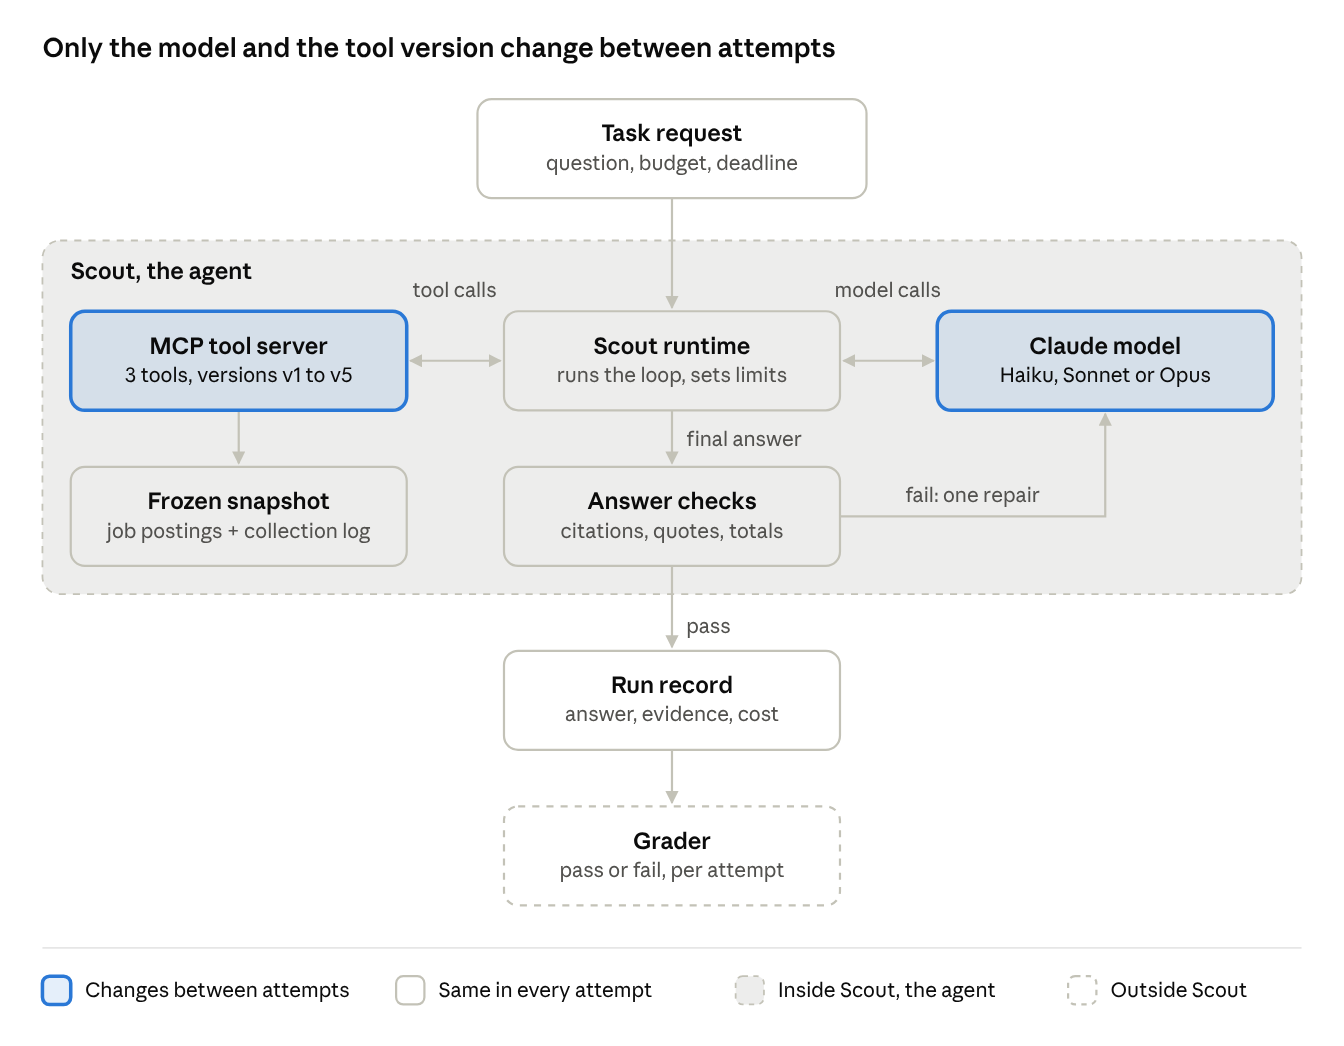
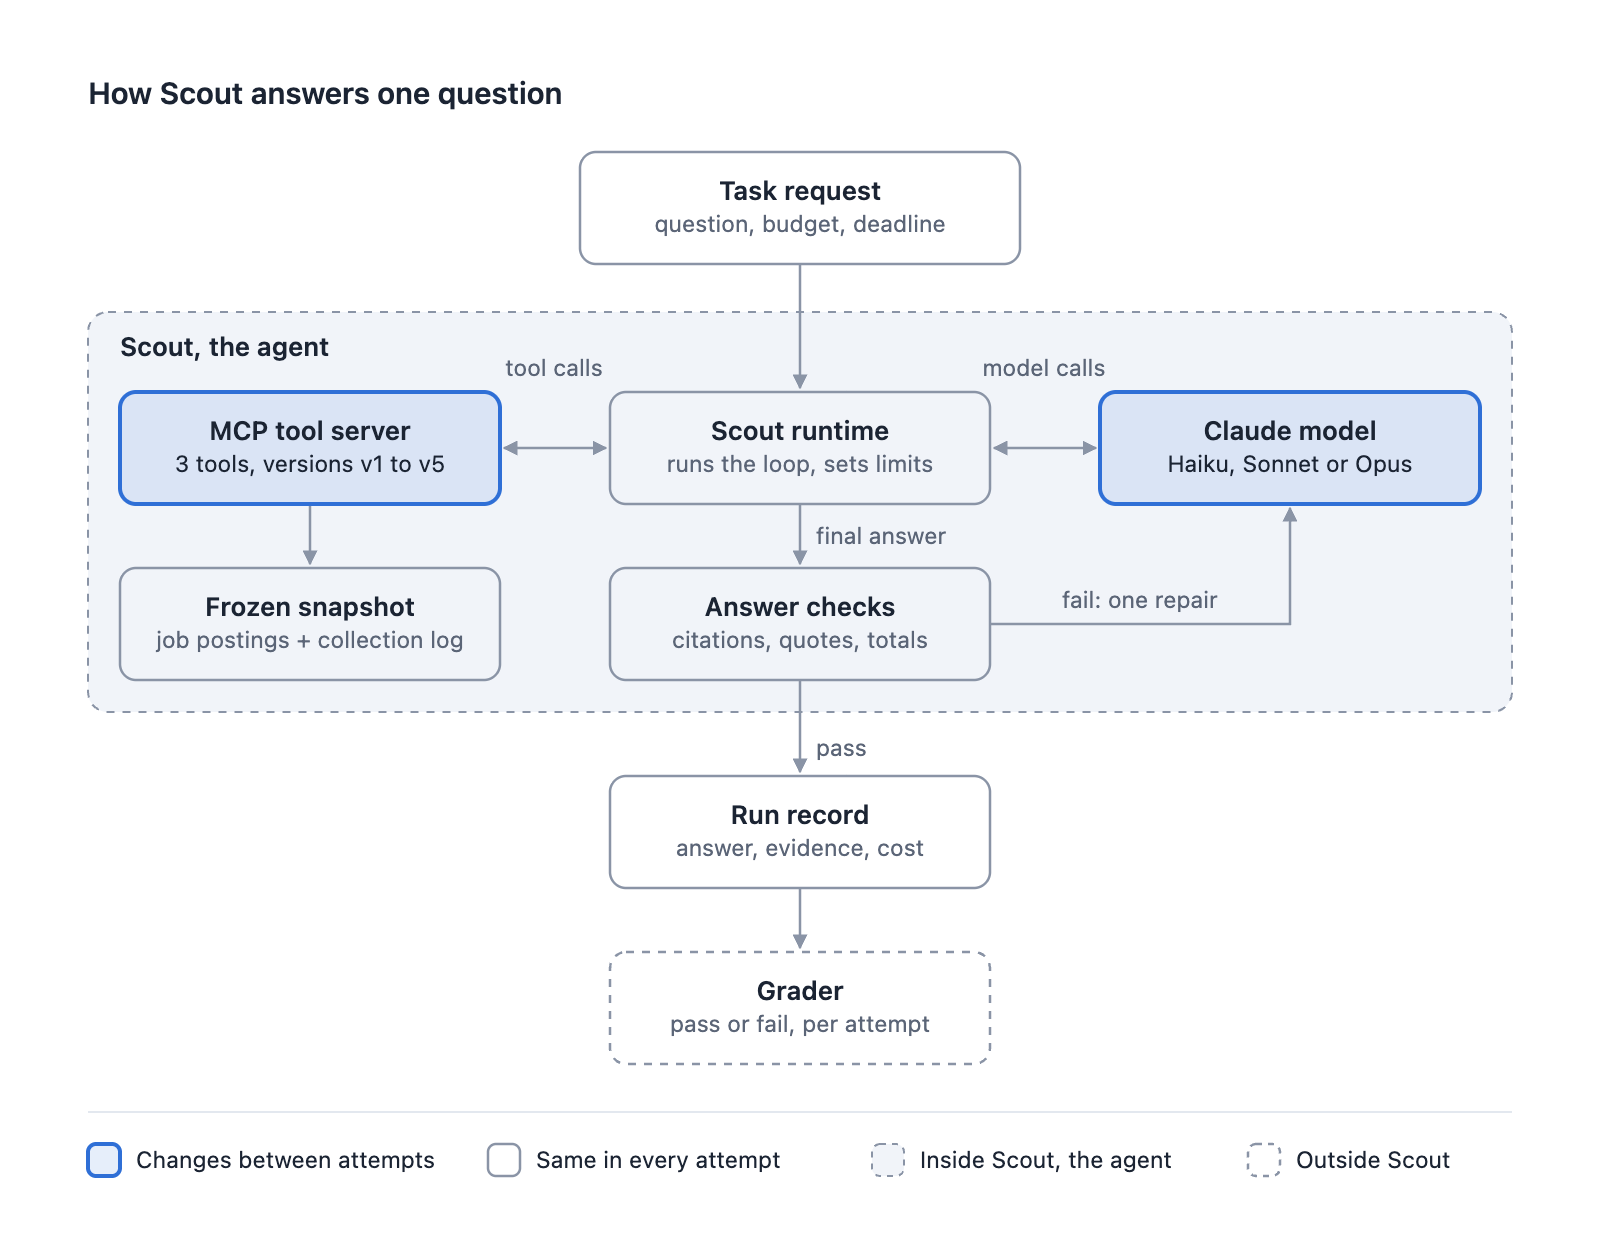
Align README and docs with the published write-up and study site
Lead with the post's three findings and corrected-grader test-set numbers,
use the post's title, link the write-up, interactive study and How Scout
Works, and replace the figures with the post's versions (adds the test-set
chart). Tuning set / test set terms throughout; manifest regenerated.

diff --git a/README.md b/README.md
@@ -1,53 +1,85 @@
-# Scout: Better Tools or a Stronger Model?
+# Scout: Can better tools make a cheaper AI model reliable enough for the job?
 
 [![checks](https://github.com/helenatan/scout-agent/actions/workflows/ci.yml/badge.svg)](https://github.com/helenatan/scout-agent/actions/workflows/ci.yml)
 [![license: MIT](https://img.shields.io/badge/license-MIT-blue.svg)](LICENSE)
 ![python 3.13](https://img.shields.io/badge/python-3.13-blue.svg)
 
-Scout is a research agent that answers questions about captured Product Manager job postings. This repository holds
-the agent, its tools, the evaluation harness and every graded result from a study of one question:
+I built Scout, a research agent that answers questions about Product Manager (PM) job postings, to test a practical
+question: how much can better tools improve a cheaper model? This repository holds the agent, its three tools in five
+versions, the evaluation harness and every graded attempt.
 
-**Can better tools make a cheaper Claude model reliable enough for the job?**
+**Read the study:** [the write-up](https://helenatan.substack.com/p/can-better-tools-make-a-cheaper-ai) ·
+[the interactive version](https://scout-agent-study.vercel.app) ·
+[How Scout Works](https://claude.ai/artifact/FhBRECQQofvJQRRRSevtdL)
 
-On a test set of ten new research tasks, each attempted three times, Sonnet 5.5 and Opus 5 using the final tools
-reached the same pass rate: 80% under the grader frozen before the run, and 93% after fixing two grader bugs. Sonnet's
-estimated cost per attempt was 25% of Opus's ($0.057 vs $0.225). On the tuning set, an earlier tool redesign had made
-Sonnet worse, and working out why produced the final tools. A setup added later showed Sonnet with basic tools already
-close on the test set, so on new questions the tools helped Opus more than Sonnet.
+I tested three Claude models with five versions of Scout's tools. What I found:
 
-![Sonnet 5.5 pass rate by tool version](docs/images/fig3-sonnet-by-tool-version.png)
+- **Better tools let the cheaper model clear the bar.** On a test set of 10 new questions, Sonnet 5.5 with the final
+  tools passed more often than Opus 5 with the basic tools (93% against 77%), at 28% of the cost per attempt ($0.057
+  against $0.201). Then I gave both models the final tools. They reached the same pass rate, 93%, and Sonnet still cost
+  about a quarter as much ($0.057 against $0.225).
+- **Tools can hand a model facts; judgment needs a stronger model.** Even after tuning, Haiku 4.5, the cheapest model,
+  passed only about 30% of the tasks it was not tuned against. About half of its failures were judgment errors that no
+  tool change fixed.
+- **The same tool change can hurt one model and leave another untouched.** My first tool redesign lowered Sonnet's pass
+  rate from 77% to 62%, while Opus was unaffected. Working out why led to the final tools.
+
+![Test set pass rate for Sonnet 5.5 and Opus 5, basic and final tools](docs/images/fig5-test-set.png)
 
 ## Findings
 
-| Setup | Tuning set, 11 tasks | Test set, 10 new tasks (original / corrected grader) | Cost per attempt |
+A task is one research question with a known answer, and an attempt is one try at it; every setup tried every task three
+times. I used two task sets and never pool them. The **tuning set** (11 tasks) is where I studied failures and improved
+the tools. The **test set** (10 new tasks) was written and frozen after all the tuning and never tuned against; the
+headline numbers come from it. The bar, set before any attempt: a cheaper setup counts as a yes if its pass rate is within
+10 percentage points of Opus 5 with basic tools, at a lower cost per attempt.
+
+| Setup | Tuning set, 11 tasks | Test set, 10 new tasks | Cost per attempt (tuning / test) |
 |---|---|---|---|
-| Opus 5 + basic tools (v1), the reference | 98% (43/44) | 67% / 77% | $0.187 to $0.201 |
-| Sonnet 5.5 + basic tools (v1) | 77% (51/66) | 77% / 80%, 1 pending (added later) | $0.042 to $0.049 |
+| Opus 5 + basic tools (v1), the reference | 98% (43/44) | 77% (23/30) | $0.187 / $0.201 |
+| Sonnet 5.5 + basic tools (v1) | 77% (51/66) | 80% (24/30), added later, 1 pending | $0.042 / $0.049 |
 | Sonnet 5.5 + summary tools (v2) | 62% (41/66) | | $0.047 |
-| Sonnet 5.5 + final tools (v5) | 94% (62/66) | 80% / 93% | $0.054 to $0.057 |
-| Opus 5 + final tools (v5) | | 80% / 93% | $0.225 |
-| Haiku 4.5, best tuned version, held-out tasks | 28% (10/36) | | $0.049 |
+| Sonnet 5.5 + explicit caveats (v3) | 97% (64/66) | | $0.054 |
+| Sonnet 5.5 + dated summary (v4) | 76% (50/66) | | $0.051 |
+| **Sonnet 5.5 + final tools (v5)** | **94% (62/66)** | **93% (28/30)** | **$0.054 / $0.057** |
+| Opus 5 + final tools (v5) | | 93% (28/30) | $0.225 |
+| Haiku 4.5 + explicit caveats (v3) + self-check, held-out tasks | 28% (10/36) | | $0.049 |
 
-The two sets do different jobs and are never pooled: the tuning set is where the tools and the Haiku tuning were
-developed; the test set was written afterwards and never tuned against.
+Test-set numbers use the corrected grader. I froze the grader before the run and afterwards found two bugs in it (it
+missed quotes stored in one part of an answer, and could not read counts written as "1/1"). Under the original grader the
+test set reads 67%, 77%, 80% and 80% for the four rows above, and every comparison points the same way.
 
-- **Tools fixed facts, not judgment.** About half of Haiku's held-out failures in its best version were judgment errors,
-  and no tool change moved them. Tuning raised Haiku's development score from 27% to 89% while held-out scores stayed
-  between 28% and 33%.
-- **A tool redesign can help one model and hurt another.** The summary tools (v2) cost Sonnet 15 percentage points and
-  Opus nothing: Sonnet trusted a summary that looked complete and stopped checking the collection record.
-- **With the same tools, the models tied.** On the test set, Opus with the final tools matched Sonnet with the final
-  tools at about four times the cost per attempt. Moving Opus from basic to final tools added 13 to 17 percentage points.
-- **On new questions, Sonnet needed the tools less than the tuning set suggested.** Sonnet with basic tools passed 80%
-  of test-set attempts under the corrected grader (90% on a hand reading), against 93% with the final tools, and matched
-  or beat Opus with basic tools at 24% of its cost per attempt.
+- **#1: Tuning Haiku showed which failures tools can fix.** Development scores climbed from 27% to 89% while every tuned
+  version landed between 28% and 33% on held-out tasks. Only the first change held up. About half of the remaining
+  failures were judgment errors, such as reading zero captured postings as proof a company was not hiring.
+- **#2: My first tool redesign made Sonnet worse.** The summary tools (v2) added a one-line gap note to each search
+  result. Opus kept checking the full collection record; Sonnet treated the note as enough, looked up the record for 49% of
+  time windows instead of 73%, and in most of its new failures never saw the date of the gap.
+- **#3: Testing each problem with its own tool version led to the final tools.** Gap sentences ready to copy (v3) took
+  Sonnet to 97%; gap dates in each result (v4) only restored 76%. The final tools (v5) do both, plus counts per source
+  and named duplicate groups: 94% on the tuning set, within 4 points of Opus at 29% of its cost per attempt.
+- **#4: On new questions, Sonnet cleared the bar at 28% of the cost.** With the final tools, Sonnet passed 93% against
+  77% for Opus with basic tools. Opus with the final tools also passed 93%, at 3.9 times Sonnet's cost per attempt. A
+  setup added later, Sonnet with basic tools, passed 80% (90% read by hand), so on the test set the final tools helped
+  Opus (+17 points) more than Sonnet (+13 points).
 
 Full tables, failure analysis and caveats: [docs/results.md](docs/results.md).
-Every number above is recomputed from [results/attempts.csv](results/attempts.csv) by `python scripts/verify_results.py`.
+Every pass count and cost above is recomputed from [results/attempts.csv](results/attempts.csv) by
+`python scripts/verify_results.py`; the hand readings and the run-trace figures (49%, 73%) are explained in
+[docs/results.md](docs/results.md).
+
+### How I would choose a model and tools next time
+
+![Sort the miss before choosing a lever](docs/images/fig4-decision-flow.png)
+
+Set the bar with the expensive model first. Keep a tuning set and a separate test set, and run the cheaper model with the
+starting tools on the test set too. Sort each failure before choosing a lever: a fact never found, a fact found but left
+out, or a slip on a count or format is a tools fix; the right facts and the wrong conclusion call for a stronger model.
+Test every tool change on every model. Among the setups that clear the bar, rank by cost per passing answer.
 
 ## How Scout works
 
-![One Scout attempt](docs/images/fig1-one-attempt.png)
+![How Scout answers one question](docs/images/fig1-one-attempt.png)
 
 The model never touches the data. It works through three tools served over a local
 [MCP](https://modelcontextprotocol.io) server: `search_job_postings`, `get_job_posting` and `get_dataset_context`.
@@ -57,7 +89,9 @@ before accepting it, with one repair allowed. Only the model and the tool versio
 
 The five tool versions keep the same three tool names and schemas and differ only in what each result carries:
 basic tools (v1), summary tools (v2), explicit caveats (v3), dated summary (v4) and final tools (v5).
-See [docs/tool-versions.md](docs/tool-versions.md), and [docs/architecture.md](docs/architecture.md) for the
+See [docs/tool-versions.md](docs/tool-versions.md) for one request's real response in each version,
+[How Scout Works](https://claude.ai/artifact/FhBRECQQofvJQRRRSevtdL) for the full walkthrough, and
+[docs/architecture.md](docs/architecture.md) for the
 five parts of a run, a step-by-step sequence, how runs end, and how an evaluation works.
 
 ## Quick start
@@ -98,21 +132,27 @@ Scout expects, and what an exact re-run would need.
 | `scout/ui/` | Local web UI for one run and for comparing saved results |
 | `eval/run_original_suite.py` | Run one model and tool version on the tuning set (original 11 tasks), then grade with grader v3 |
 | `eval/run_matrix.py` | General runner used for the test set and the final evaluation |
-| `eval/graders/original_v3/` | Deterministic grader for the original suite (frozen, hash-checked) |
-| `eval/tasks/final/`, `eval/tasks/fresh-v1/` | Task prompts, the fresh suite's two-part grader, freeze record and decisions |
-| `results/` | One row per graded attempt (pass/fail, cost, time, tokens; no answer text) and its provenance |
+| `eval/graders/original_v3/` | Deterministic grader for the tuning set (frozen, hash-checked) |
+| `eval/tasks/final/`, `eval/tasks/fresh-v1/` | Task prompts for the tuning set (`final/`) and the test set (`fresh-v1/`), plus the test set's two-part grader, freeze record and decisions |
+| `results/` | One row per graded attempt (pass/fail, cost, latency, tokens; no answer text) and its provenance |
 | `scripts/` | Demo data, result verification, and the export script that produced `results/` |
 | `docs/` | Results, reproduction guide, tool versions, architecture diagrams, figures |
-| `site/` | Static findings viewer for the September 27 evaluation; without the private data file it shows labeled sample data |
+| `site/` | Viewer for the September 27 evaluation run, a development record; without the private data file it shows labeled sample data. The study's findings site is [scout-agent-study.vercel.app](https://scout-agent-study.vercel.app) |
 | `tests/` | Unit and integration tests, runnable without an API key |
 
 ## Limits
 
-Eleven tasks in the tuning set and ten in the test set, three attempts each, all research over one snapshot of job
-postings. Sonnet's lead over Opus with basic tools on the test set is not statistically significant; "at least as good, at
-about a quarter of the cost per attempt" is the supported claim. All attempts ran through headless Claude Code on a
-subscription, so costs are list rates applied to reported tokens, not bills. A 50,000-token input limit applied to every
-attempt. See [docs/results.md](docs/results.md#limits).
+- **A small sample.** The test set has 10 tasks, tried three times each. A gap of 93% against 77% on 30 attempts each is
+  not enough to call Sonnet with the final tools better than Opus with basic tools, so "at least as good" is the claim the
+  data supports. The tuning set has 11 tasks.
+- **Estimated costs.** Every attempt ran on a Claude subscription through headless Claude Code, so costs are list prices
+  applied to the tokens each attempt used, not a real bill.
+- **An input limit.** Every attempt was capped at 50,000 input tokens per request. On the test set, the cap cost Opus with
+  basic tools one task and Sonnet with basic tools one attempt.
+- **One pending attempt.** One Sonnet with basic tools attempt on the test set awaits human review because the two judge
+  models disagreed; it counts as not passed.
+
+See [docs/results.md](docs/results.md#limits).
 
 ## Citation
 

diff --git a/docs/reproduce.md b/docs/reproduce.md
@@ -118,7 +118,7 @@ SCOUT_PROVIDER=claude-code SCOUT_RUNS_DB=eval/results/my-store.sqlite SCOUT_SPEN
 ```
 
 Use `SCOUT_PROVIDER=anthropic` with `ANTHROPIC_API_KEY` to bill the Messages API instead. Run records land in
-`eval/results/<label>/runs/`. For the original 11-task layout, `eval/run_original_suite.py` wraps the same steps and
+`eval/results/<label>/runs/`. For the tuning set (11 tasks), `eval/run_original_suite.py` wraps the same steps and
 grades with grader v3 at the end.
 
 ### 4. Grade
@@ -130,14 +130,14 @@ Graders are task-specific, because each task has its own right answer:
 - **Judgment by rubric.** Follow `eval/tasks/fresh-v1/judge.py`: yes/no rubric items, each answered by two judge models
   through the Claude Code CLI; both must say yes, and a disagreement goes to a person.
 - **Entry point:** `.venv/bin/python eval/tasks/fresh-v1/grade_fresh.py eval/results/<label>` grades a results folder
-  for the fresh suite; copy the folder as a template for your own suite.
+  for the test set; copy the folder as a template for your own suite.
 
 Freeze tasks, keys and grader (hash them, as in `eval/tasks/fresh-v1/FREEZE.json`) before the first attempt, and hold
 out tasks you never tune against.
 
 ## What an exact re-run would need
 
-The original snapshot at `m0/data/pai_dump_2026-09-06.sqlite`, plus `eval/tasks/final/_keys.json` for the original
-suite, and `eval/tasks/fresh-v1/_keys.json` and `rubric.json` for the fresh suite. With those in place,
+The original snapshot at `m0/data/pai_dump_2026-09-06.sqlite`, plus `eval/tasks/final/_keys.json` for the tuning
+set, and `eval/tasks/fresh-v1/_keys.json` and `rubric.json` for the test set. With those in place,
 `eval/run_original_suite.py` and `eval/run_matrix.py` re-run any setup, and the published graders score it. Model
 outputs vary from attempt to attempt, so a re-run reproduces the distribution, not the exact pass counts.

diff --git a/docs/results.md b/docs/results.md
@@ -1,5 +1,8 @@
 # Results
 
+The narrative version of these results is [the write-up](https://helenatan.substack.com/p/can-better-tools-make-a-cheaper-ai)
+and [the interactive study](https://scout-agent-study.vercel.app). This page holds the full tables behind them.
+
 Every pass count, cost and time in the tables below is recomputed from [`results/attempts.csv`](../results/attempts.csv)
 by `python scripts/verify_results.py`, which exits with an error if any number here drifts from the data.
 Figures marked *(from run traces)* come from the saved run records, which are not published because they contain
@@ -115,6 +118,8 @@ disagreement goes to a person.
 | Sonnet 5.5 + basic tools (v1), added later | 23/30 (77%, 1 pending) | 24/30 (80%, 1 pending) | $0.049 | 11 s* | $0.064 / $0.061 |
 
 *Measured on a different day from the other three rows; not comparable. Pass rates count a pending attempt as not passed.
+
+![Test set pass rate for Sonnet 5.5 and Opus 5, basic and final tools](images/fig5-test-set.png)
 
 **Original and corrected grades.** The original grader is the one frozen before the run. Afterwards two bugs were found:
 it missed quotes stored in the structured part of an answer, and it could not read per-source counts written as `1/1`.
